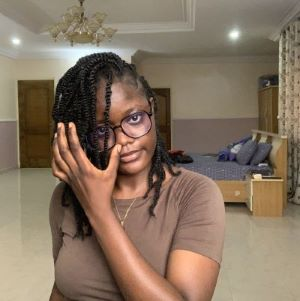
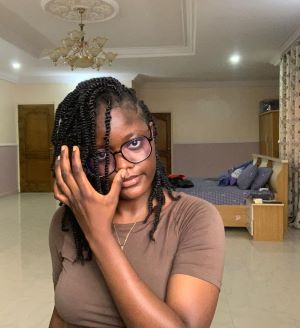
final

diff --git a/style.css b/style.css
@@ -2,28 +2,12 @@
   margin: 0;
 }
 body {
-  background-color: #edd2ff;
-}
-
-/* intro-section */
-#intro {
-  padding-top: 140px;
-}
-
-#intro,
-#goals-list,
-#link-section {
-  width: 80%;
-  margin: auto;
-}
-
-#intro p {
-  font-size: 1rem;
-  font-weight: 500;
-  line-height: 2;
-}
-.intro-desc {
-  margin-bottom: 20px;
+  background: rgb(224, 180, 253);
+  background: linear-gradient(
+    90deg,
+    rgba(224, 180, 253, 1) 0%,
+    rgba(237, 210, 255, 0.4598214285714286) 100%
+  );
 }
 
 /* general styling */
@@ -50,6 +34,34 @@ h3 {
   margin-bottom: 7px;
   color: rgb(32, 31, 31);
   font-family: "Montserrat", sans-serif;
+}
+
+/* intro-section */
+#intro {
+  padding-top: 140px;
+}
+
+#intro,
+#goals-list,
+#link-section {
+  width: 80%;
+  margin: auto;
+}
+
+#intro p {
+  font-size: 1rem;
+  font-weight: 500;
+  line-height: 2;
+}
+.intro-desc {
+  margin-bottom: 20px;
+}
+
+.natural-size {
+  width: auto;
+  height: auto;
+  max-width: none;
+  max-height: none;
 }
 
 /* time and day */
@@ -148,13 +160,10 @@ a:hover {
   padding-bottom: 30px;
 }
 
-
-
 /* responsiveness */
 
 /* mobile view */
 @media (max-width: 600px) {
-
   /* general styling */
   h1 {
     font-size: 2.5rem;
@@ -175,15 +184,16 @@ a:hover {
   #intro p {
     font-size: 0.85rem;
   }
- /* intro section */
- #intro{
-  padding-top: 70px;
- }
 
- .day-time {
-  position: relative;
-  bottom: 40px;
-}
+  /* intro section */
+  #intro {
+    padding-top: 70px;
+  }
+
+  .day-time {
+    position: relative;
+    bottom: 40px;
+  }
   .introduction {
     width: 100%;
     position: relative;
@@ -193,6 +203,7 @@ a:hover {
     padding-bottom: 100px;
   }
 
+  /* goal section */
   #goals-list {
     width: 80%;
   }
@@ -208,8 +219,9 @@ a:hover {
     font-size: 0.85rem;
   }
 
+  /* link section */
   a {
-    margin: 5px;
+    margin: 6px;
     font-size: 0.8rem;
   }
 
@@ -220,6 +232,7 @@ a:hover {
 
 /* ipad and tab view */
 @media (min-width: 600px) and (max-width: 900px) {
+  /* general styling */
   h1 {
     font-size: 3rem;
   }
@@ -240,11 +253,12 @@ a:hover {
     font-size: 0.5rem;
   }
 
-  #intro{
+  /* intro section */
+  #intro {
     padding-top: 70px;
-   }
-  
-   .day-time {
+  }
+
+  .day-time {
     position: relative;
     bottom: 40px;
   }
@@ -262,6 +276,7 @@ a:hover {
     font-size: 0.9rem;
   }
 
+  /* goal section */
   #goals-list {
     width: 70%;
   }
@@ -277,6 +292,7 @@ a:hover {
     font-size: 0.9rem;
   }
 
+  /* link section */
   .email {
     font-size: 0.8rem;
   }

diff --git a/index.html b/index.html
@@ -30,6 +30,7 @@
         src="./img/profile.img.jpg"
         alt="slack-profile"
         data-testid="slackProfilePicture"
+        class="natural-size"
       />
       <div class="introduction">
         <p>Welcome, I'm</p>
@@ -105,7 +106,8 @@
           >Scrape Any Website</a
         >
       </div>
-      <p class="email">Email Adress:
+      <p class="email">
+        Email Adress:
         <span data-testid="slackEmail"> deborahkudaru@email.com</span>
       </p>
     </div>
